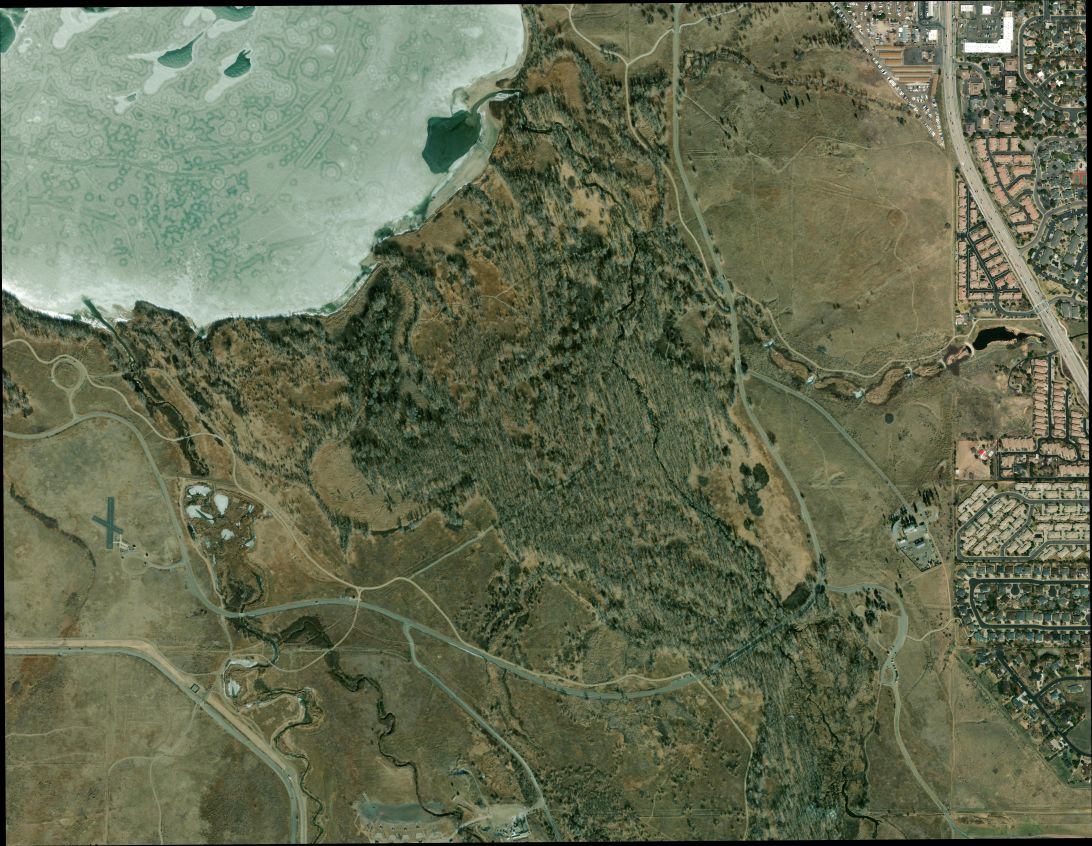
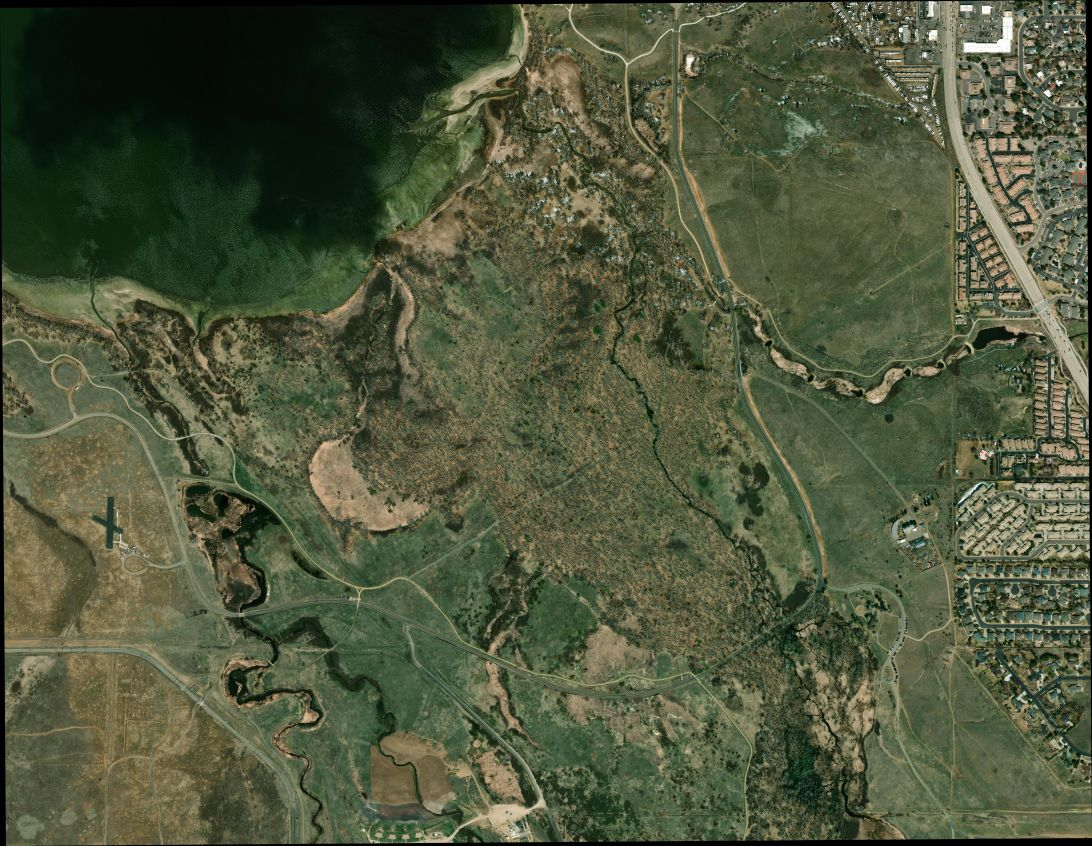
Update docs

diff --git a/docs/download.md b/docs/download.md
@@ -88,12 +88,11 @@ Download historical imagery at zoom level `20` from within the region defined by
    
    **Command:**
    ```Console
-   GEHistoricalImagery download --provider wayback --lower-left 39.619819,-104.856121 --upper-right 39.638393,-104.824990 --zoom 19 --date 2023/04/05 --target-sr https://epsg.io/103248.wkt --output "./Cherry Creek 4.tif"
+   GEHistoricalImagery download --provider wayback --lower-left 39.619819,-104.856121 --upper-right 39.638393,-104.824990 --zoom 19 --date 2023/04/23 --target-sr https://epsg.io/103248.wkt --output "./Cherry Creek 4.tif"
    ```
 
    **Output:**
    ![Cherry Creek 4-Small.jpg](assets/Cherry%20Creek%204-Small.jpg)
-   [click here to download the original file](../../../raw/d607b9c7f8851316ff893ed02396c95bb55391ef/docs/assets/Cherry%20Creek%204.tif)
 
 ### Example 5 - Get imagery from an irregular region
 
